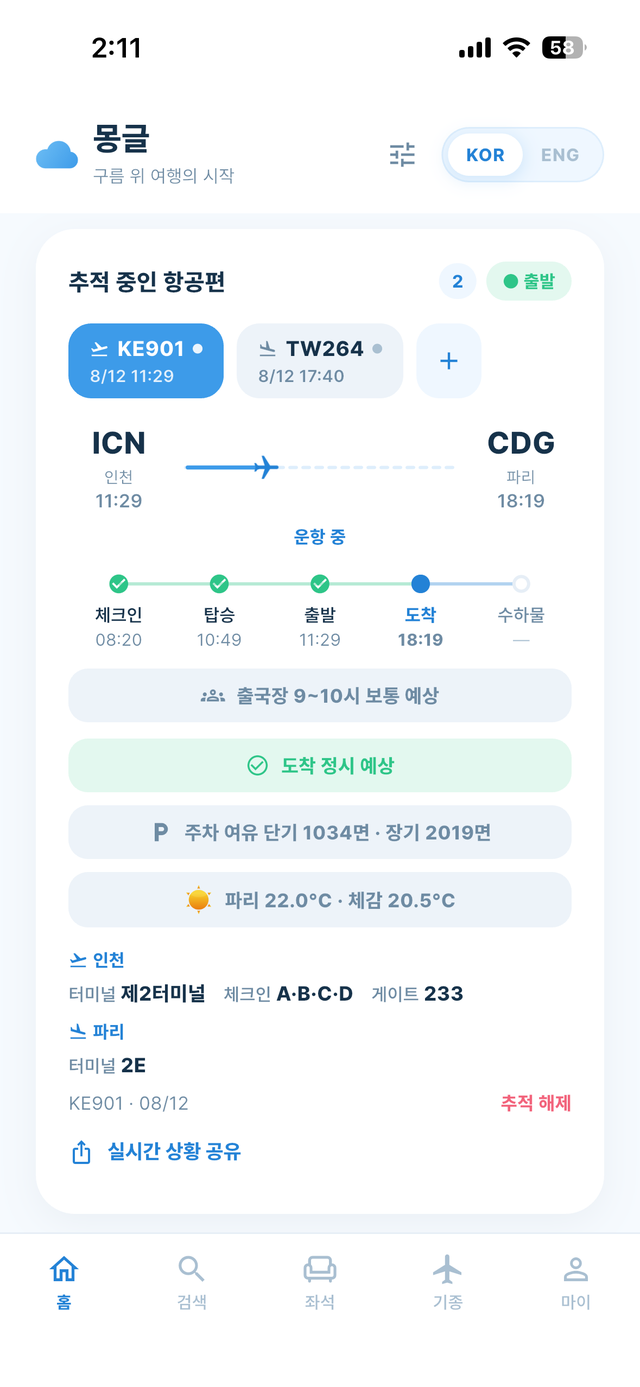
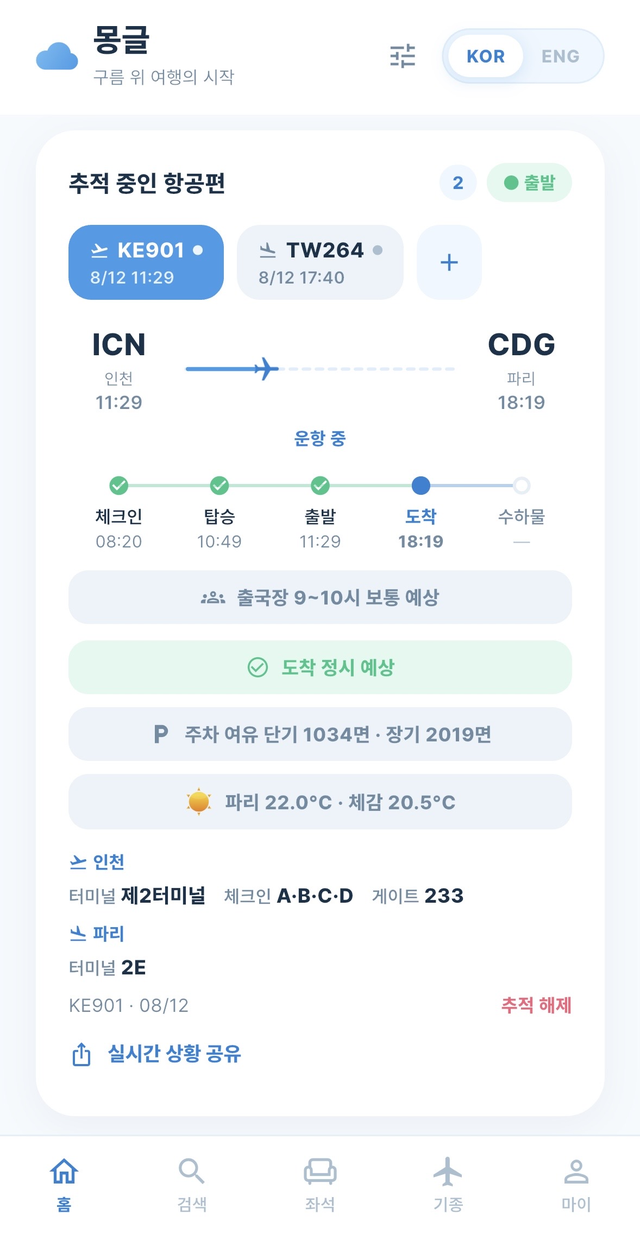
mongle: 히어로 스크린샷을 잘라낸 버전으로 교체 (상태바·하단 제거)

diff --git a/mongle/index.html b/mongle/index.html
@@ -235,7 +235,7 @@
 
     <div>
       <div class="shot">
-        <img src="screen-tracking.png" width="640" height="1387"
+        <img src="screen-tracking.png" width="640" height="1240"
              alt="몽글 추적 화면 — KE901 인천→파리, 운항 중. 체크인·탑승·출발·도착·수하물 타임라인, 출국장 혼잡 예상, 도착 정시 예상, 주차 여유, 파리 날씨, 터미널·체크인·게이트 정보">
       </div>
       <p class="shot-cap" data-en="Actual tracking screen — live KE901 Incheon → Paris.">실제 추적 화면 — KE901 인천 → 파리, 실시간 운항 데이터</p>
